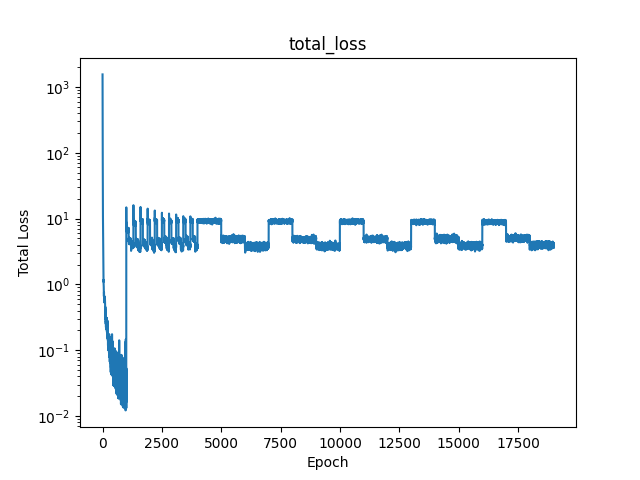
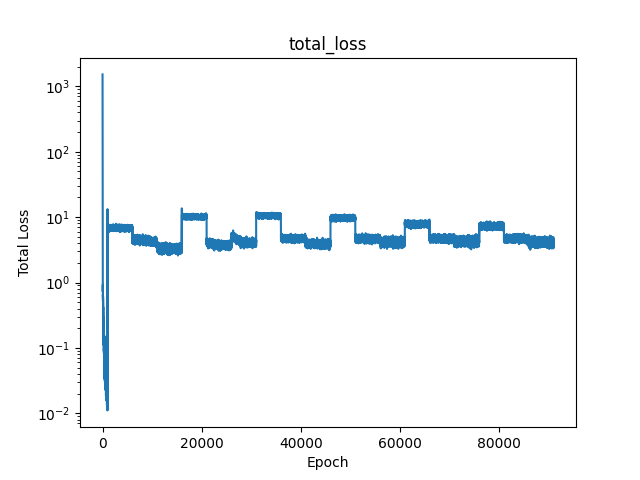
add experiment results for 2d harrison

diff --git a/test_2d_harrison.py b/test_2d_harrison.py
@@ -126,10 +126,10 @@ mgf_trainer = MGFTrainer(d = d, mu = MU, sigma = SIGMA, R = R, hidden_dim = 128,
 if RETRAIN:
     anchor_set = None
     individual_rounds = [
-        dict(epochs=100,  lr=1e-3, T0=100, eta_min=1e-6)
-    ] * 10 + [
-        dict(epochs=1000, lr=1e-4, T0=1000, eta_min=1e-8)
-    ] * 5
+        dict(epochs=5000,  lr=1e-3, T0=5000, eta_min=1e-6)
+    ] * 3 + [
+        dict(epochs=5000, lr=1e-4, T0=5000, eta_min=1e-8)
+    ] * 3
     mgf_trainer.train(lb = TRAIN_LB, ub = TRAIN_UB, imag_lb = TRAIN_IMAG_LB, imag_ub = TRAIN_IMAG_UB, full_gradient = False, theta_eval = None, batch_size = 1000, num_joint_epochs = 1000, joint_init_lr = 1e-3, joint_scheduler_T0 = 100, joint_scheduler_Tmult = 1, joint_scheduler_eta_min = 1e-6, individual_rounds = individual_rounds, lam_monotone = 0, lam_CR = 1e-1, lam_growth = 0, anchor_set = anchor_set)
     mgf_trainer.save()
 else:
